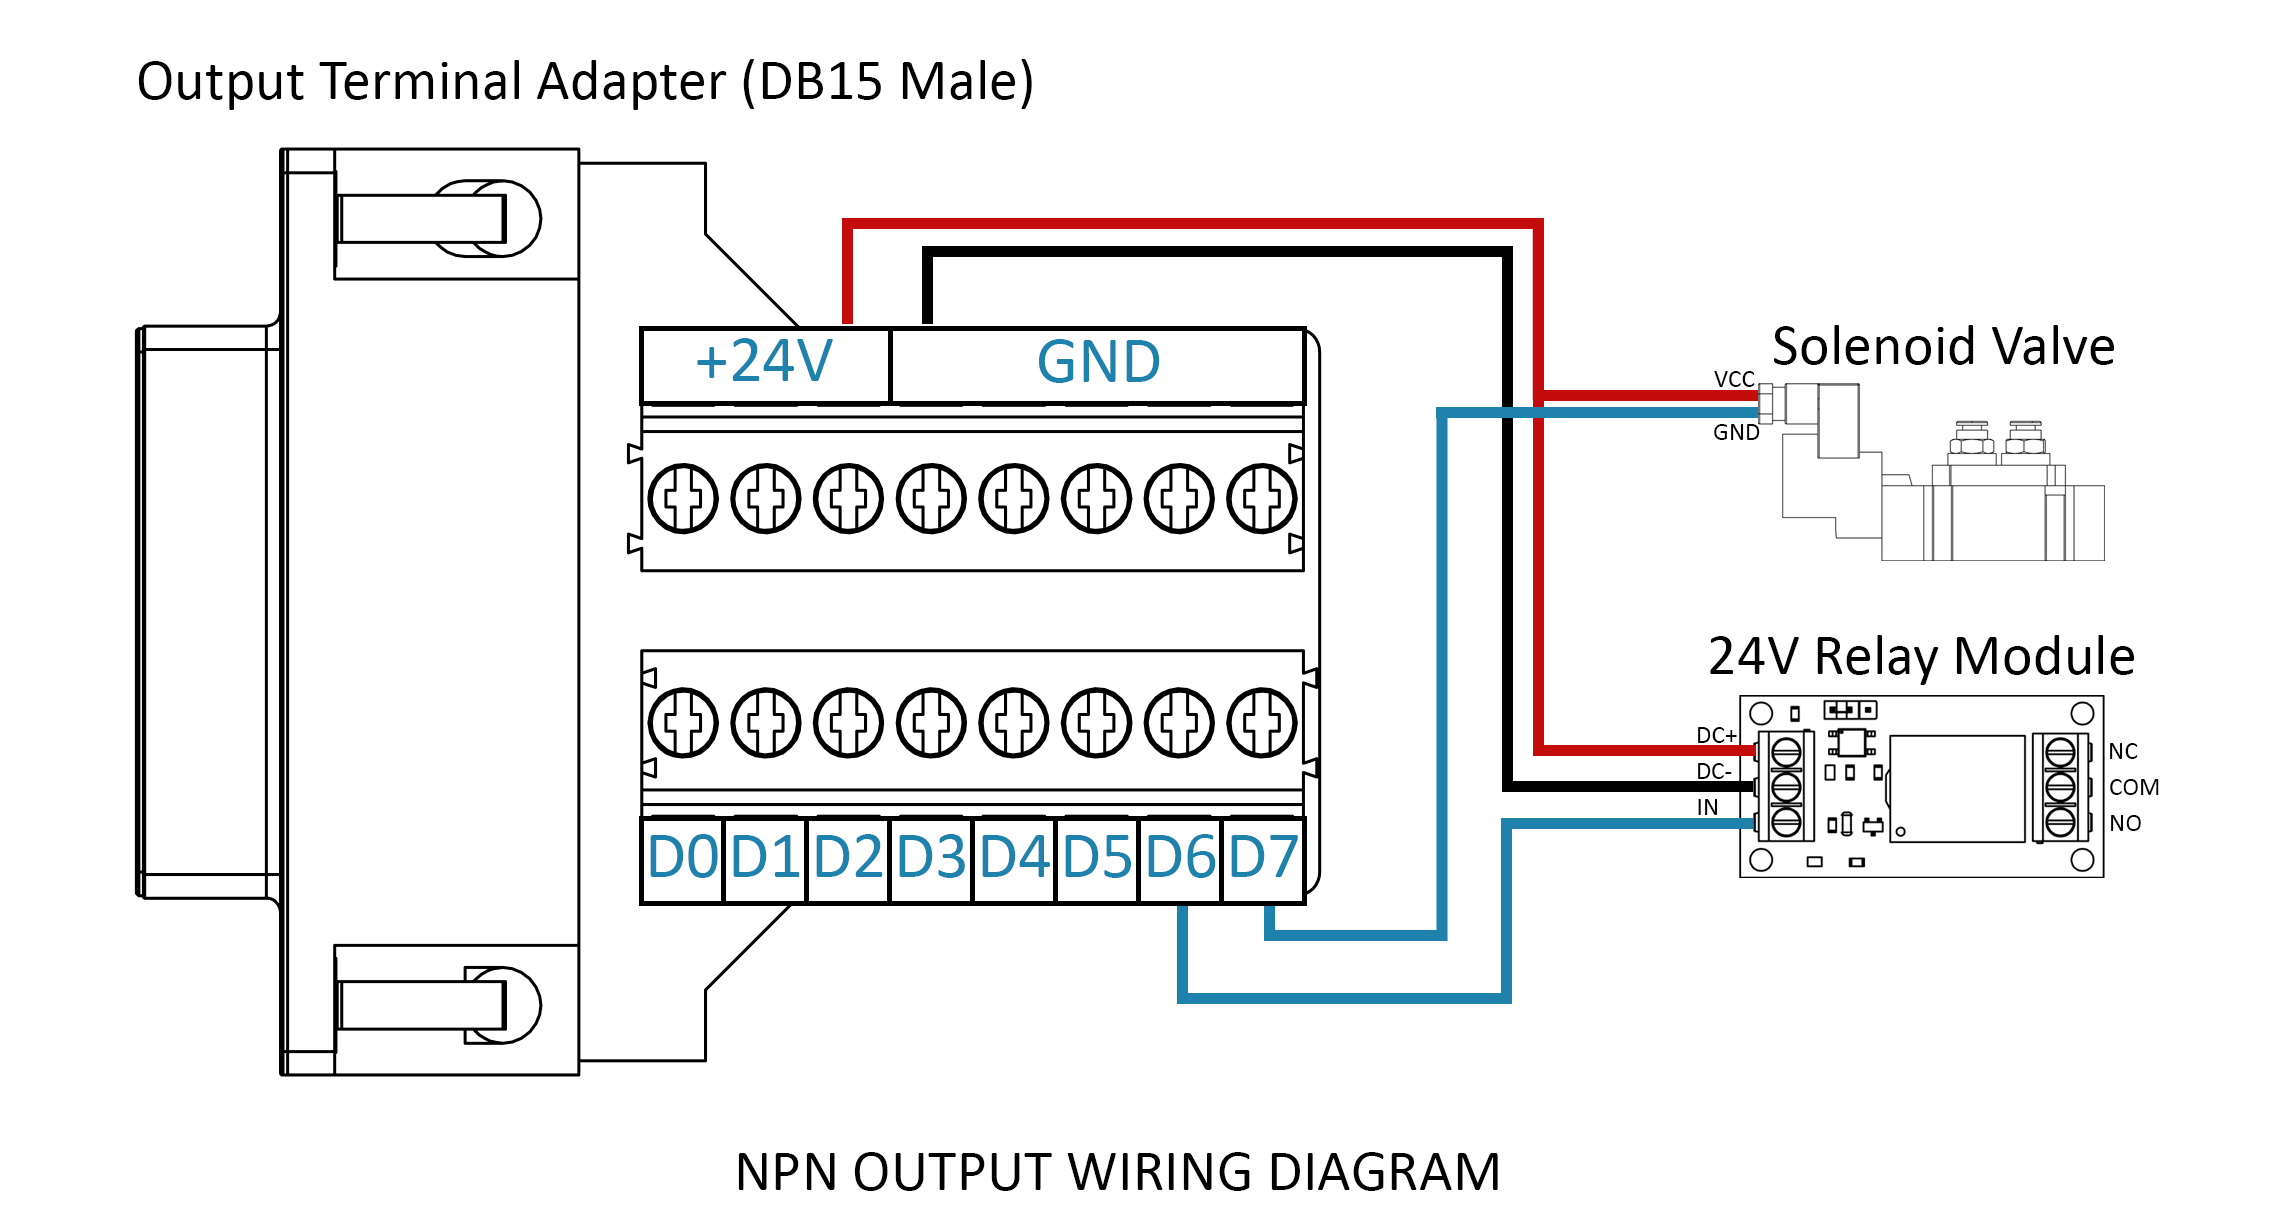
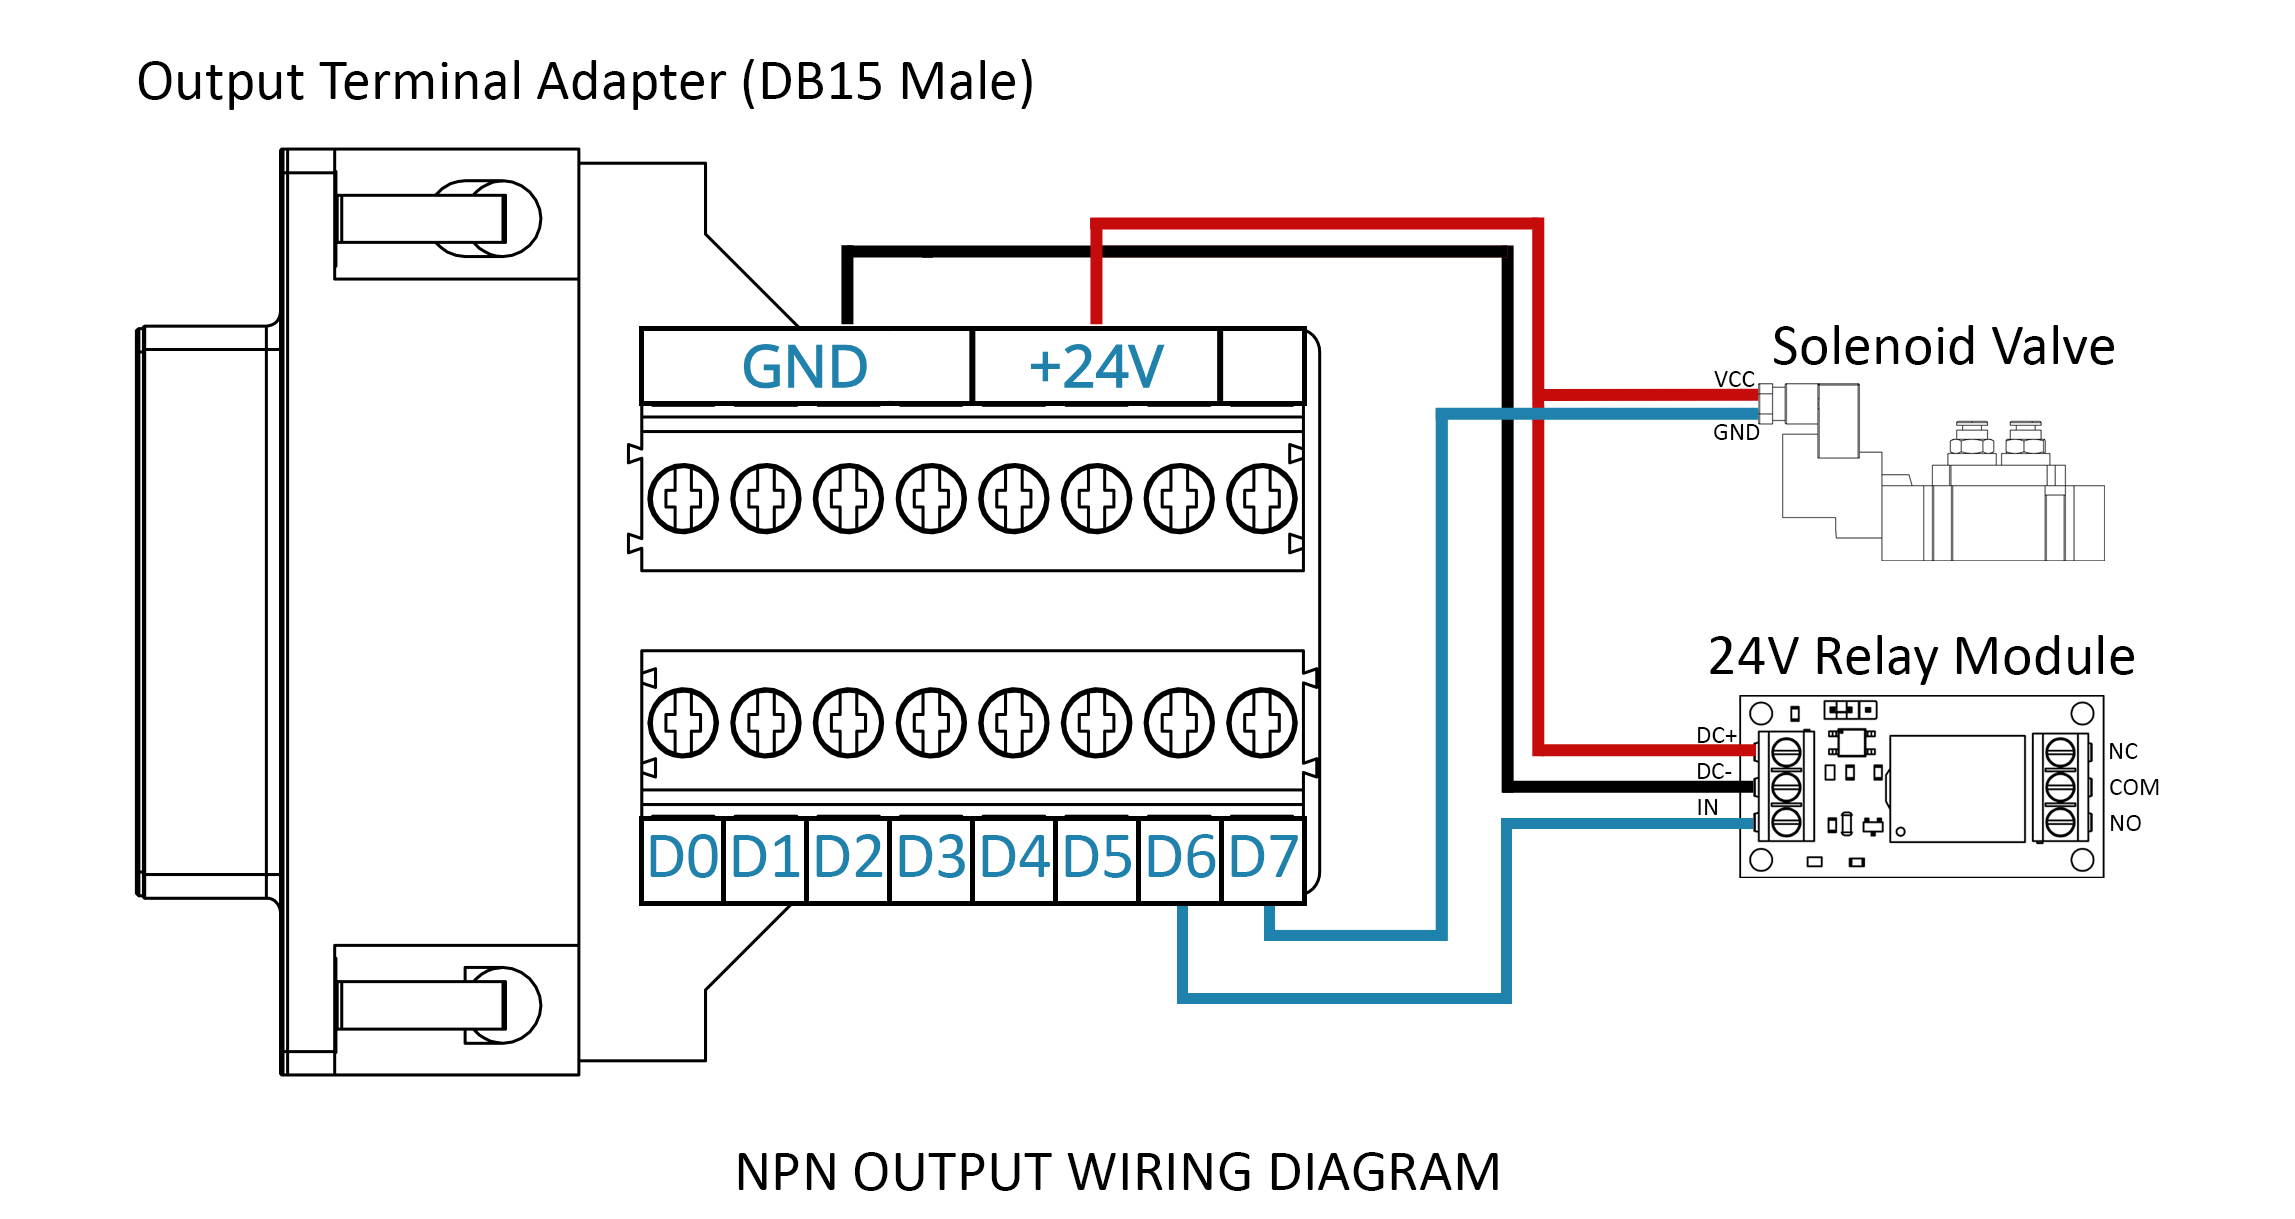
add M62 (Gripper) command for robot x3, update output robot XS

Changed region(s): [[0.3094, 0.1559, 0.5259, 0.3429], [0.7115, 0.3117, 0.7425, 0.3429], [0.6497, 0.3429, 0.6806, 0.3741]]

diff --git a/docs/reference/gcodes/gc_x3.md b/docs/reference/gcodes/gc_x3.md
@@ -735,6 +735,32 @@ M61 P180 Q0 H90 A500 B2500    ;set axis U parameters
 
 ---
 
+## M62 - Set Gripper
+
+#### Descriptions
+
+Configure gripper parameters: max position, min position, and home position. Any omitted parameter keeps its current stored value.
+
+#### Usage
+
+```
+M62 P<x> Q<y> H<z>
+```
+
+#### Parameters
+
+* `P[x]`: max position.
+* `Q[y]`: min position.
+* `H[z]`: home position.
+
+#### Example
+
+```
+M62 P100 Q0 H50    ;set gripper parameters
+```
+
+---
+
 ## M84 - Disable Steppers
 
 #### Descriptions

diff --git a/docs/reference/specifications/delta_xs_v5/sp_v5_d400.md b/docs/reference/specifications/delta_xs_v5/sp_v5_d400.md
@@ -94,7 +94,7 @@ Digital OUPUT pins (24VDC/500mA):
 |-----------|-----------|-----------|-----------|
 |Pin 1 - D0 |Pin 2 - D1 |Pin 3 - D2 |Pin 4 - D3 |
 |Pin 5 - D4 |Pin 6 - D5 |Pin 7 - D6 |Pin 8 - D7 |
-|Pin 9~12 - 24VDC      ||Pin 12~15 - GND       ||
+|Pin 9~11 - 24VDC      ||Pin 12~15 - GND       ||
 
 E-STOP pins:
 